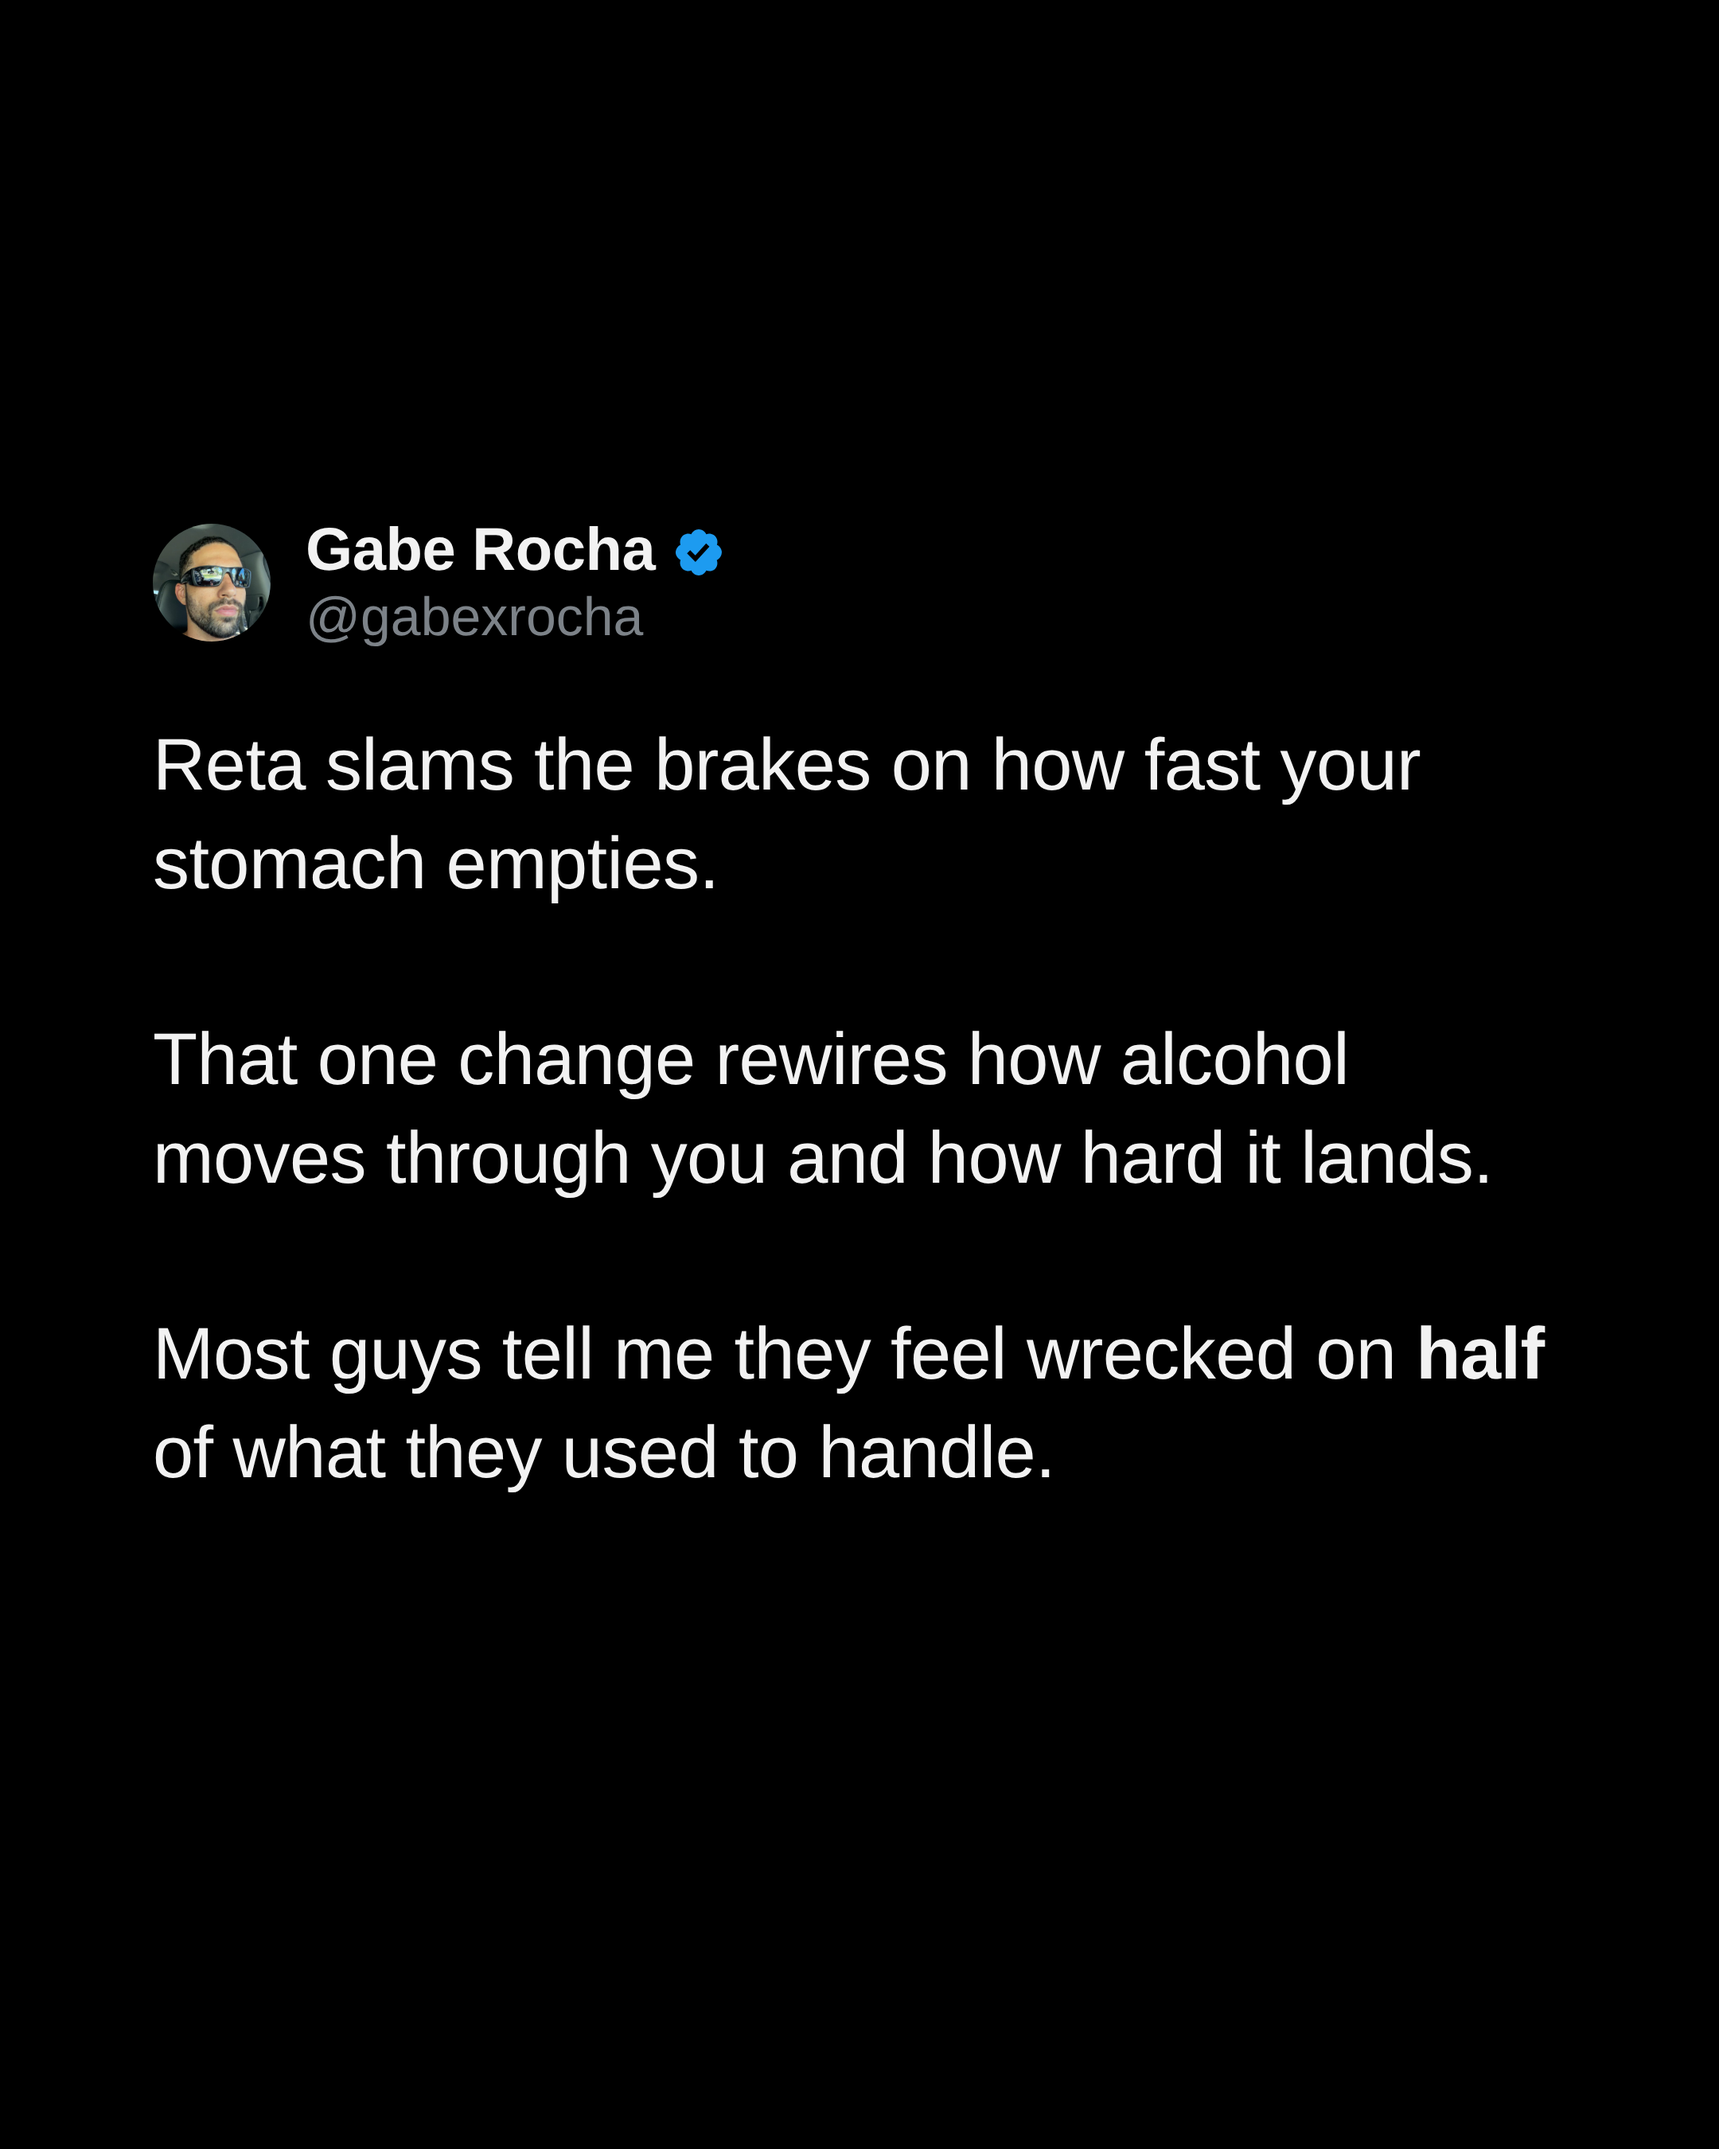
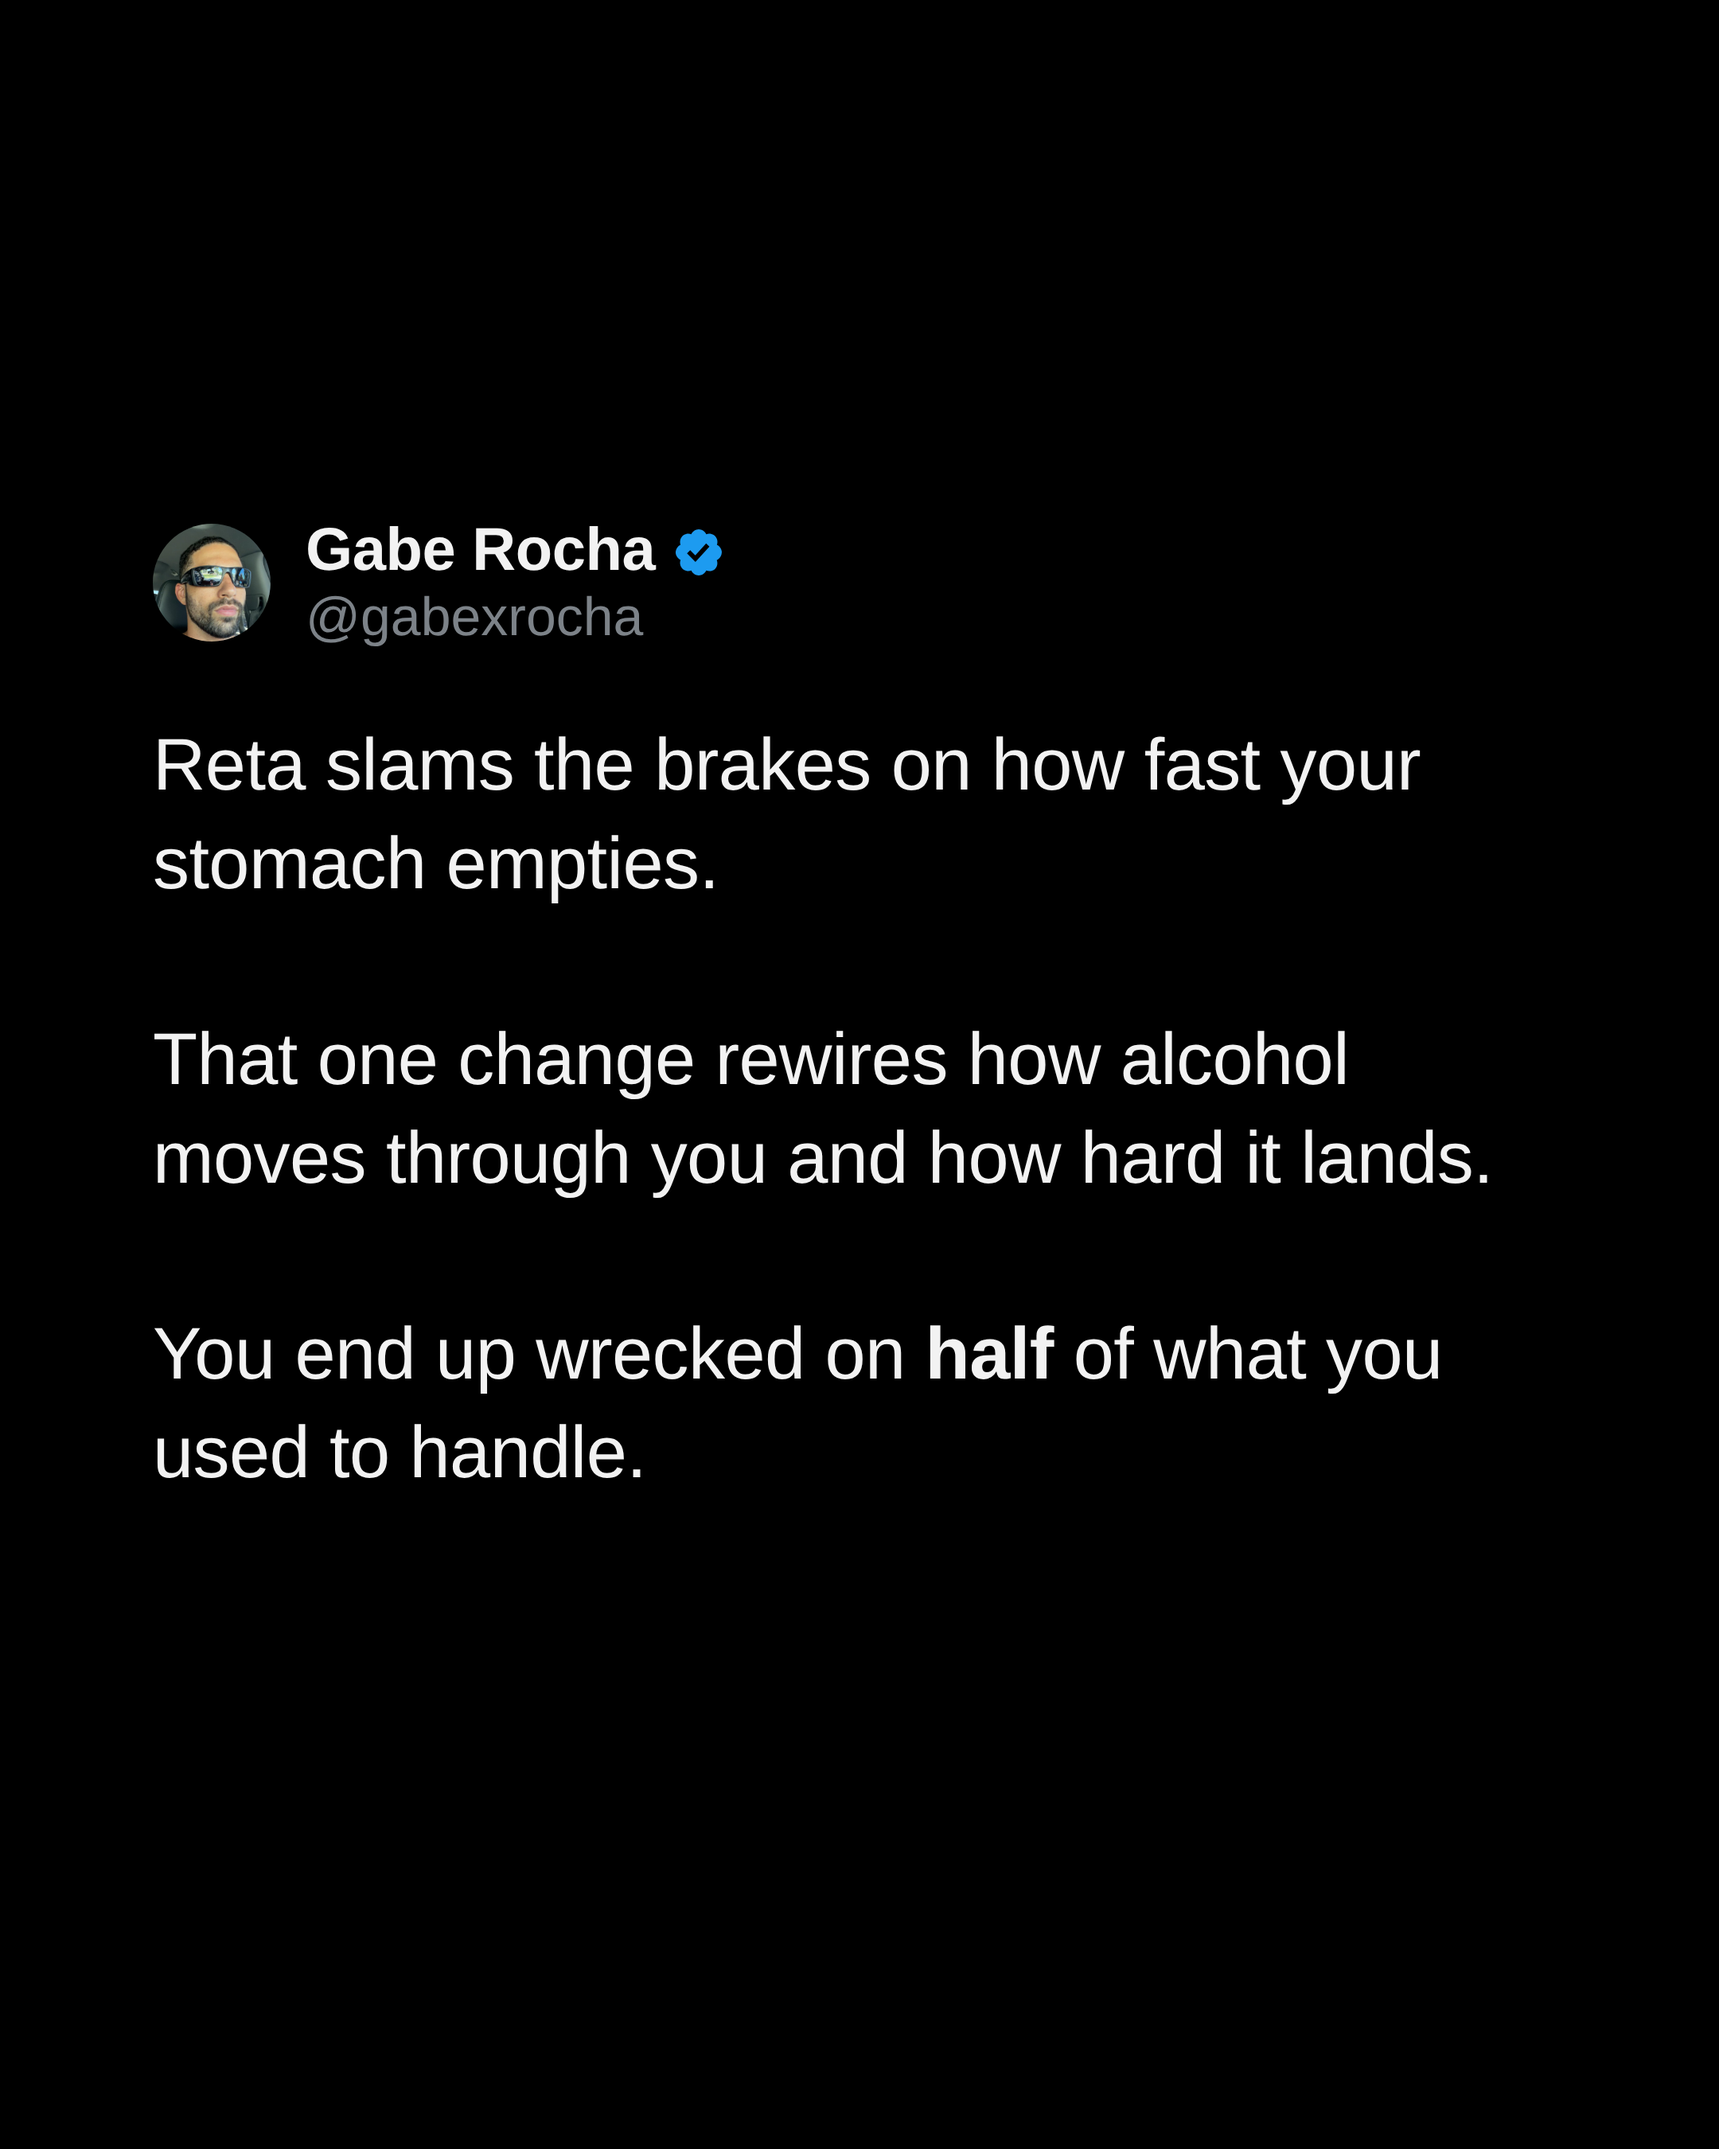
Neutralize copy: drop em-dashes and gendered words
Remove em-dashes and replace 'guys' with neutral phrasing that speaks
directly to 'you'. Re-render slide-1..7.

Claude-Session: https://claude.ai/code/session_01KhMAB4xGLRey4k1bYPicjG

Changed region(s): [[0.0931, 0.6222, 0.8995, 0.6844]]

diff --git a/carousel.html b/carousel.html
@@ -72,12 +72,12 @@ const HANDLE = "@gabexrocha";
 const SLIDES = [
   { kind:"hook", html:`Two drinks on Reta hit like five.
 
-If your tolerance fell off a cliff, you’re not crazy — here’s what’s actually happening. 👇` },
+If your tolerance fell off a cliff, you’re not crazy. Here’s what’s actually happening. 👇` },
   { html:`Reta slams the brakes on how fast your stomach empties.
 
 That one change rewires how alcohol moves through you and how hard it lands.
 
-Most guys tell me they feel wrecked on <b>half</b> of what they used to handle.` },
+You end up wrecked on <b>half</b> of what you used to handle.` },
   { html:`The same three things come up over and over:
 
 •  Getting drunk way faster
@@ -92,7 +92,7 @@ Yale researchers found GLP-1s <b>cut down the enzyme your body uses to break alc
 (npj Metabolic Health &amp; Disease)` },
   { html:`Here’s the part nobody connects:
 
-losing weight quietly drops your tolerance too. Less body mass means less water to dilute the alcohol — same drink, smaller tank, <b>higher concentration</b>.
+losing weight quietly drops your tolerance too. Less body mass means less water to dilute the alcohol. Same drink, smaller tank, <b>higher concentration</b>.
 
 You didn’t get lightweight. Your body changed the math.` },
   { html:`Stack on top of that: Reta kills your appetite, so you’re drinking on an <b>empty stomach</b> without even realizing it.
@@ -100,7 +100,7 @@ You didn’t get lightweight. Your body changed the math.` },
 Nothing in there to slow it down means it hits faster and harder every single time.` },
   { kind:"cta", html:`Want the real playbook on Reta and every peptide I run?
 
-Comment “skool” and I’ll drop you into my community — 1,200+ guys, full protocols and courses on all of it.` },
+Comment “skool” and I’ll drop you into my community. 1,200+ members, full protocols and courses on all of it.` },
 ];
 
 const BADGE = `<svg class="badge" viewBox="0 0 22 22" aria-hidden="true"><path fill="#1d9bf0" d="M20.396 11c-.018-.646-.215-1.275-.57-1.816-.354-.54-.852-.972-1.438-1.246.223-.607.27-1.264.14-1.897-.131-.634-.437-1.218-.882-1.687-.47-.445-1.053-.75-1.687-.882-.633-.13-1.29-.083-1.897.14-.273-.587-.704-1.086-1.245-1.44-.541-.354-1.17-.551-1.816-.569-.646.018-1.275.215-1.816.569-.541.354-.972.853-1.245 1.44-.607-.223-1.264-.27-1.898-.14-.633.132-1.216.437-1.686.882-.445.47-.75 1.053-.882 1.687-.13.633-.083 1.29.14 1.897-.587.274-1.086.705-1.44 1.246-.354.541-.551 1.17-.569 1.816.018.646.215 1.275.569 1.816.354.541.853.972 1.44 1.245-.223.608-.27 1.265-.14 1.898.132.634.437 1.217.882 1.687.47.445 1.053.75 1.687.882.633.13 1.29.083 1.897-.14.274.587.705 1.086 1.246 1.44.541.354 1.17.551 1.816.569.646-.018 1.275-.215 1.816-.569.541-.354.972-.853 1.245-1.44.604.239 1.266.303 1.906.185.64-.118 1.232-.413 1.703-.848.435-.47.73-1.063.848-1.703.118-.64.054-1.302-.185-1.906.587-.273 1.086-.704 1.44-1.245.354-.541.551-1.17.569-1.816zM9.662 14.85l-3.429-3.428 1.293-1.302 2.072 2.072 4.4-4.794 1.347 1.246z"/></svg>`;
